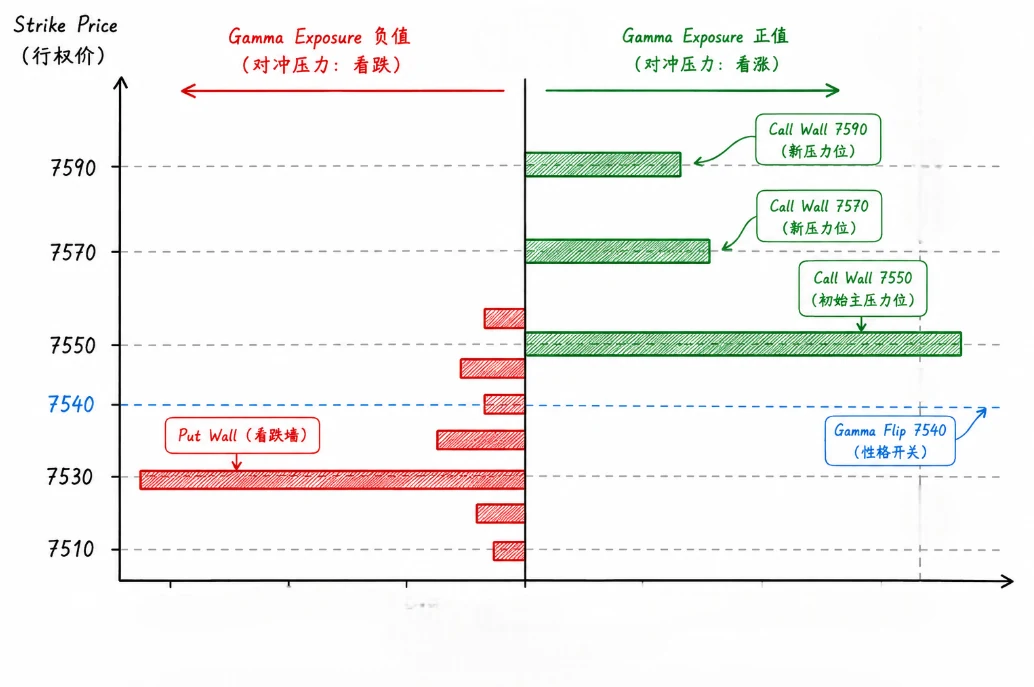
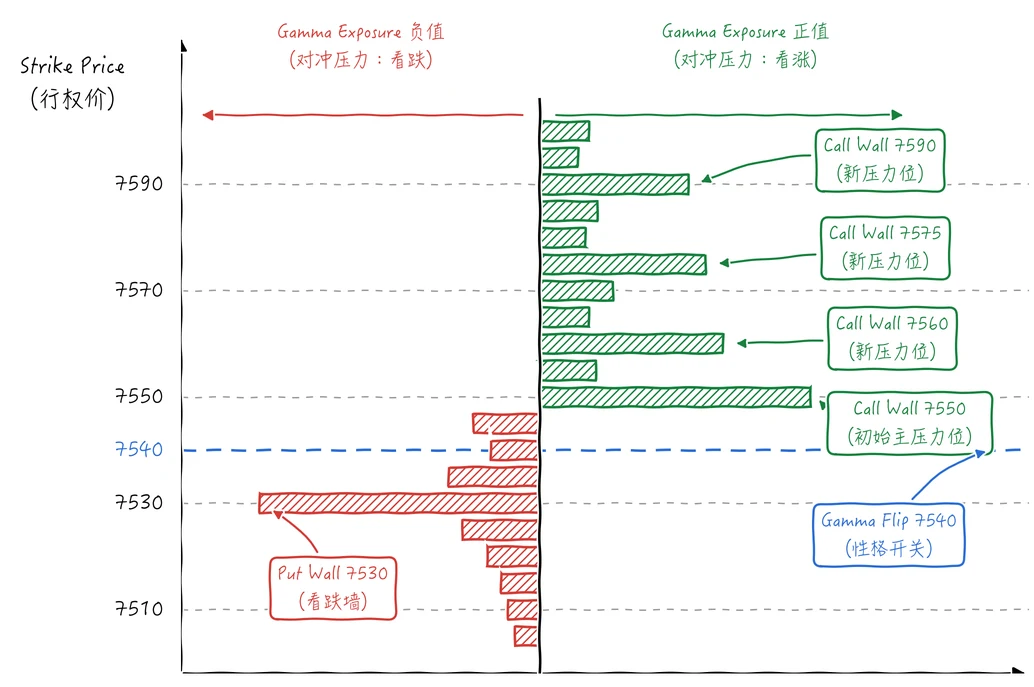
docs(第1章): 订正 0604 数据并重绘图 1-1
数据订正（依据图 1-2、图 1-3 原始截图）：
- Call Wall 第一档 7570 改为 7560
- Put Wall 由 7550 改为 7540
- 重绘 figure-006：墙位改为 7550/7560/7575/7590，补上 Gamma Flip 7540

内容修订：
- 开盘结构补入 Gamma Flip 7540
- Net GEX 数值补充口径说明：各软件量纲不同，绝对值不可跨软件比较
- 补充「正 Gamma 压的是波动不是方向」，与当日振幅不足 1% 相印证
- 抄顶段补入买方需同时赌赢方向、幅度、时间
- 结尾补入 7545 过早平仓的复盘

diff --git a/content/chapters/01-hook-0604.md b/content/chapters/01-hook-0604.md
@@ -1,4 +1,4 @@
-# 第 1 章 Gamma这么强，为什么还有人做空
+# 第 1 章 Gamma 这么强，为什么还有人做空
 
 ### 临江仙·顺势
 
@@ -14,7 +14,7 @@
 
 先讲 2026 年 6 月 4 日那一天。
 
-一个很普通的单边上涨日——可偏偏是这种「看着该回调了」的日子，最容易把人骗进去做空。那天我没做什么大交易，赚的也只是一个小波段。但它把一件事摆得明明白白：**价格一整天在喊「涨太多了」，期权墙却一直在说「别空」。**
+一个很普通的单边上涨日，涨幅其实并不大——可偏偏是这种「看着该回调了」的日子，最容易把人骗进去做空。那天我没做什么大交易，赚的也只是一个小波段。但它把一件事摆得明明白白：**价格一整天在喊「涨太多了」，期权墙却一直在说「别空」。**
 
 如果你还没读过期权墙（GEX 地图），可以先翻**「导读：半小时看懂期权墙」**。不翻也行，这一章你照样能看懂——那天到底谁读对了、谁读错了。
 
@@ -22,19 +22,20 @@
 
 ### 开盘那半小时：我以为今天是区间
 
-开盘头 15 分钟，盘面没什么花样，数据很稳。9:45，我瞄了一眼期权墙：
+开盘头 15 分钟，盘面没什么花样，数据很稳。9:45（美东时间，全书同），我瞄了一眼期权墙：
 
 - **Call Wall 7550**——上方的天花板
+- **Gamma Flip 7540**——今天的性格开关
 - **Put Wall 7530**——下方的地板
 
 
 <figure class="book-figure">
-  <img src="/images/figures/figure-006.webp" alt="图 1-1  2026-06-04 开盘期权墙 · Call Wall 7550 / Put Wall 7530" loading="lazy" decoding="async" />
-  <figcaption>图 1-1  2026-06-04 开盘期权墙 · Call Wall 7550 / Put Wall 7530</figcaption>
+  <img src="/images/figures/figure-006.webp" alt="图 1-1  2026-06-04 开盘期权墙 · Call Wall 7550 / Gamma Flip 7540 / Put Wall 7530" loading="lazy" decoding="async" />
+  <figcaption>图 1-1  2026-06-04 开盘期权墙 · Call Wall 7550 / Gamma Flip 7540 / Put Wall 7530</figcaption>
 </figure>
 
 
-图 1-1 就是那一眼看到的结构：一道看涨墙压在 7550、一道看跌墙托在 7530，价格正贴着下面这道地板。我心想：这里有支撑，买张 Call 试试。它确实弹了一小段，我在 7545 附近出掉，赚了个小波段——到这一步，我脑子里装的还是「区间交易」那套：跌到 Put Wall 买、涨到 Call Wall 卖。
+图 1-1 就是那一眼看到的结构：一道看涨墙压在 7550、一道看跌墙托在 7530，中间 7540 是 Gamma Flip。价格正贴着下面这道地板走。我心想：这里有支撑，买张 Call 试试。它确实弹了一小段，我在 7545 附近出掉，赚了个小波段——到这一步，我脑子里装的还是「区间交易」那套：跌到 Put Wall 买、涨到 Call Wall 卖。
 
 价格也照着这个剧本走：摸到 7550 Call Wall，遇阻、回调。看上去，今天就是个 7530–7550 的箱体。
 
@@ -48,9 +49,9 @@
 
 我盯着期权墙看——它变了。旧的 Call Wall 被吃穿，新的墙在更高的地方冒出来，一级接一级：
 
-- 10:23，Call Wall 上移到 7570 附近
+- 10:23，Call Wall 上移到 7560 附近
 - 11:10，又往上挪到 7575
-- 13:15，再上到 7590；连 Put Wall 也跟着抬到了 7550
+- 13:15，再上到 7590；连 Put Wall 也跟着从 7530 抬到了 7540
 
 
 <figure class="book-figure">
@@ -59,7 +60,7 @@
 </figure>
 
 
-图 1-2 把那天的完整轨迹标了出来：开盘 Put Wall 7530、Call Wall 7550；价格在 Put Wall 附近获得支撑后起涨，7550 被突破之后，新的 Call Wall 一级一级往上冒——7560、7575、午后 7590，价格自始至终走在 VWAP 上方。
+图 1-2 把那天的完整轨迹标了出来：开盘 Put Wall 7530、Call Wall 7550；价格在 Put Wall 附近获得支撑后起涨，7550 被突破之后，新的 Call Wall 一级一级往上冒——7560、7575、午后 7590，价格自始至终走在 VWAP（成交量加权均价，图上那条橙线）上方。
 
 这不是一次普通的上涨。市场没有在旧的压力位停下，而是**每突破一堵墙，就在更高的地方盖一堵新的**；连地板（Put Wall）也跟着往上垫。从期权墙的角度看，这句话很朴素，却很重要：**从结构上看，市场正在向更高的价格区间试探、被一步步接纳。**
 
@@ -67,15 +68,13 @@
 
 > **价格会骗人，结构很少骗人。** 那天，价格一直在喊「涨太多了」；而期权墙从头到尾，只说了两个字——**别空。**
 
-那天收盘后我回看数据，“Gamma强”不是感觉，是数字。
+那天收盘后我回看数据，「Gamma 强」不是感觉，是数字。
 
-Net GEX（净伽马敞口）从开盘约10B开始，一路上涨：
+Net GEX（净 Gamma 敞口）从开盘的约 10B 起步，一路往上：
 
-11:06 突破 100B
-
-13:28 站上 500B
-
-15:39 达到 1200B 左右
+- 11:06 突破 100B
+- 13:28 站上 500B（图 1-3 截图里的 512.9B）
+- 15:39 达到 1200B 左右
 
 
 <figure class="book-figure">
@@ -84,9 +83,13 @@ Net GEX（净伽马敞口）从开盘约10B开始，一路上涨：
 </figure>
 
 
-这不是“Gamma看涨”——GEX从来不告诉你涨跌。它告诉你的是：做市商的正Gamma敞口在持续扩大，市场处在极强的“减震器”模式。价格每涨一点，做市商就被迫卖出期货来对冲；但卖出的力度始终压不住买盘，于是价格继续推，Call Wall跟着往上移。
+**先说一句关于数字本身的话。** 各家软件算 GEX 的口径不一样——有的按指数每变动 1% 折算成美元，有的直接给名义值，量纲能差好几个数量级。**所以绝对值跨软件没有可比性，别拿我这里的 10B、1200B 去套你的软件。** 真正要看的是同一张图上的**方向和幅度**：这个数今天是在扩张还是在收缩，比它等于多少重要得多。
 
-换句话说，那天的“Gamma强”不是市场在喊“涨”，而是市场在说“这个趋势的结构很稳，别逆着它来”。
+这不是「Gamma 看涨」——GEX 从来不告诉你涨跌。它告诉你的是：做市商的正 Gamma 敞口在持续扩大，市场处在很强的「减震器」模式。价格每往上走一点，做市商为了对冲就得卖出一点期货；但这股卖压始终压不住买盘，于是价格继续推，Call Wall 跟着往上移。
+
+**这里有个特别容易搞反的地方。** 正 Gamma 压的是**波动**，不是**方向**。它让回撤变浅、噪音变小，却并不阻止市场朝一个方向慢慢挪。回头看那天：指数一整天的振幅还不到 1%，走得又稳又慢——**「单边」和「波动被压住」，那天是同时成立的。** 我早上把「正 Gamma」直接读成「今天是箱体」，那个剧本被撕掉，问题就出在这里。
+
+换句话说，那天的「Gamma 强」不是市场在喊「涨」，而是市场在说「这个趋势的结构很稳，别逆着它来」。
 
 数据不会说谎。但人会在数据面前，选择自己愿意相信的那一部分。
 
@@ -99,7 +102,7 @@ Net GEX（净伽马敞口）从开盘约10B开始，一路上涨：
 
 有人在 7550、7570 一带做空，赌一个回调，结果被行情一路碾过去；也有更「稳」的人，等价格再高一点才动手，以为「这下总到头了吧」——可结构还在往上长。
 
-这是单边上涨里最反直觉的一件事：**一整天的上涨，只有一次做空是对的，就是最高点那一下；其余每一次抄顶，都是错的。** 而没有人能提前知道，哪一下才是最高点。
+这是单边上涨里最反直觉的一件事：**一整天的上涨，只有一次做空是对的，就是最高点那一下；其余每一次抄顶，都是错的。** 而没有人能提前知道，哪一下才是最高点。何况用 0DTE 的 Put 去抄顶，你得同时赌赢**方向、幅度、时间**三件事——只猜对方向，账户上未必看得到钱。
 
 同一个盘面，两副眼睛，看出相反的结论：
 
@@ -111,10 +114,10 @@ Net GEX（净伽马敞口）从开盘约10B开始，一路上涨：
 
 **那天，数据到底说了什么（把散落的要点收拢一下）：**
 
-- Call Wall 从 7550 → 7570 → 7575 → 7590，一级级上移
-- Put Wall 从 7530 抬到 7550，地板跟着往上垫
+- Call Wall 从 7550 → 7560 → 7575 → 7590，一级级上移
+- Put Wall 从 7530 抬到 7540，地板跟着往上垫
 - 价格自始至终走在 VWAP 上方
-- 跌破 Gamma Flip 的时间极短，绝大部分时候都在它上方
+- 只有开盘那一小段在 Gamma Flip 7540 下方，之后一整天都在它上方
 
 一句话：那天的信号不是「感觉它该回调了」，而是**结构每一步都在说「还没到头」**。
 
@@ -129,6 +132,8 @@ Net GEX（净伽马敞口）从开盘约10B开始，一路上涨：
 **别人凭感觉喊「到顶了」，我只问结构一句：墙，还在不在往上盖？**
 
 **上涨里最贵的那个念头，是「它不可能再涨了」——市场偏偏最爱教训这句话。**
+
+还有一句，是写给我自己的：**那天我方向没错，是做小了。** 在 7545 平掉那张 Call 的时候，我平掉的不只是一笔交易，是「今天是箱体」这整套假设——后面那 45 个点，我一点没拿到。没去做空，只算及格；结构一路在喊「还没到头」，我却提前把手上唯一站对边的仓位关了——这才是那天真正的成本。**看对了拿不住，和看错了一样贵。**
 
 > **市场其实很少惩罚「看错」。它真正惩罚的，是看对了却拿不住、看错了又不肯认的那一下。**
 
